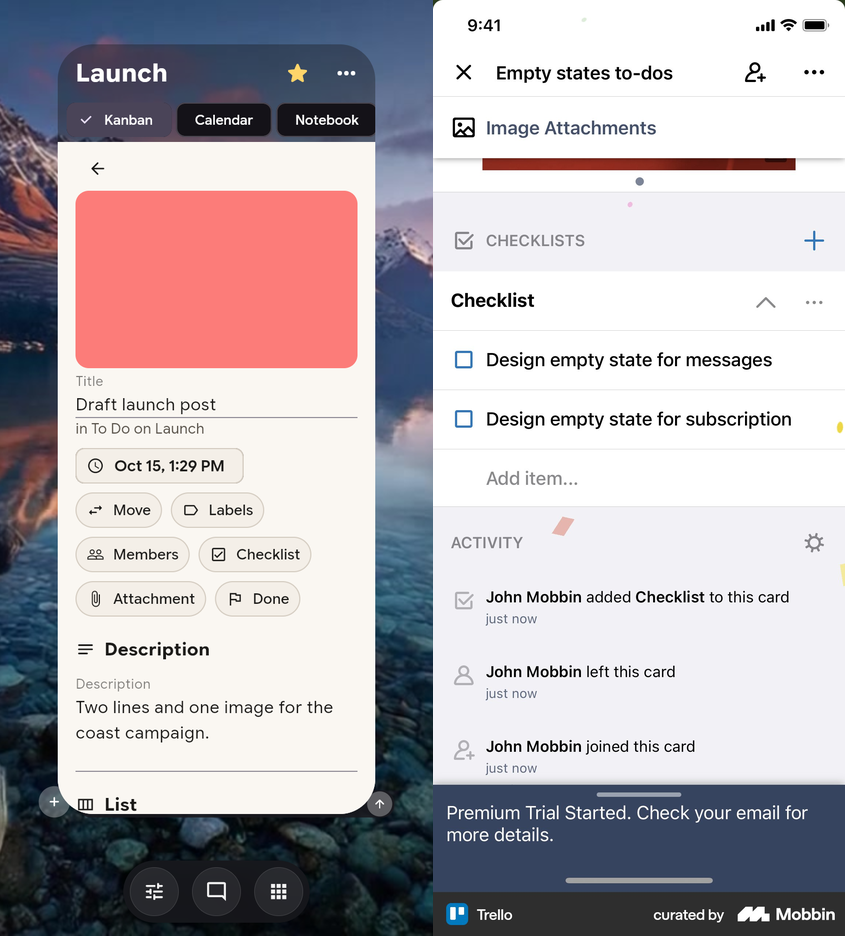
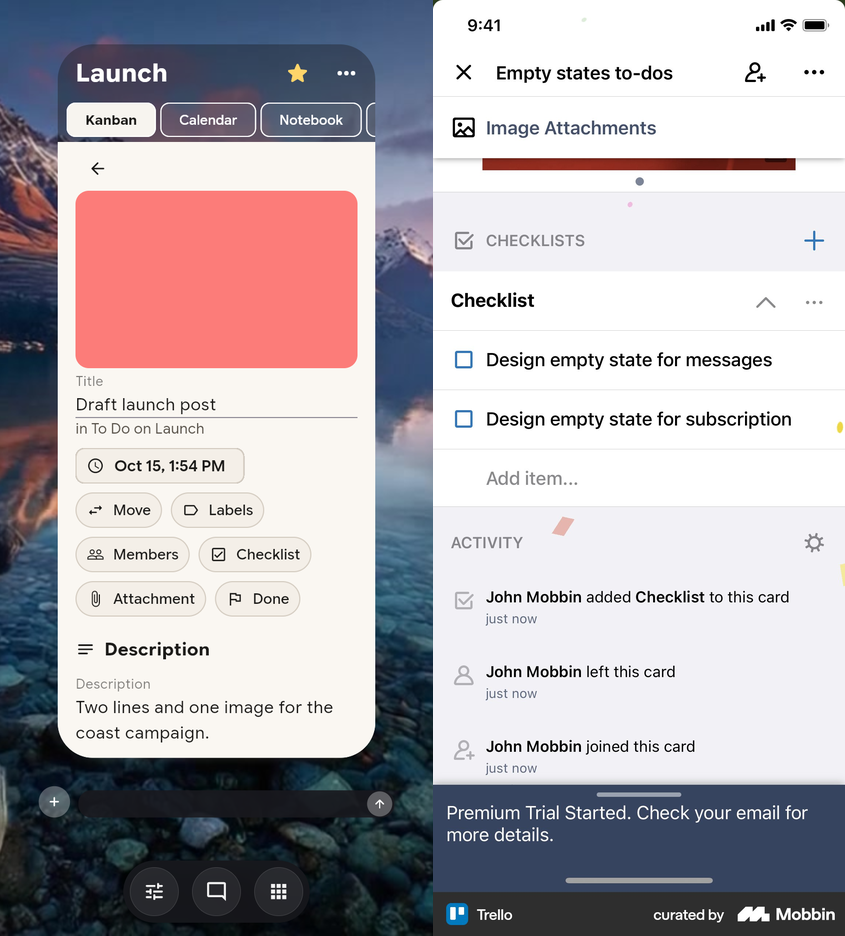
Let the unselected tabs read as glass and recapture the screens.
The chip material was an opaque dark slab under the outline. A transparent canvas lets the pane show through, and the new shots are from that build.

Changed region(s): [[0.0615, 0.7746, 0.4615, 0.8675], [0.0615, 0.0929, 0.4615, 0.1549], [0.2154, 0.4957, 0.2769, 0.5267]]

diff --git a/lib/features/smartgen/sg_pane.dart b/lib/features/smartgen/sg_pane.dart
@@ -202,24 +202,29 @@ class _SgPaneState extends State<SgPane> {
   Widget _glassChoice({required String label, required bool selected, required ValueChanged<bool> onSelected, double size = 12}) {
     final ink = selected ? const Color(0xFF1C1B19) : Colors.white;
     final style = appFont(fontSize: size, fontWeight: selected ? FontWeight.w700 : FontWeight.w500, color: ink);
-    return ChoiceChip(
-      label: Text(label, style: style),
-      labelStyle: style,
-      selected: selected,
-      showCheckmark: false,
-      onSelected: onSelected,
-      visualDensity: VisualDensity.compact,
-      materialTapTargetSize: MaterialTapTargetSize.shrinkWrap,
-      elevation: 0,
-      pressElevation: 0,
-      surfaceTintColor: Colors.transparent,
-      shadowColor: Colors.transparent,
-      selectedShadowColor: Colors.transparent,
-      side: BorderSide(color: selected ? const Color(0xFFFFFFFF) : const Color(0xB3FFFFFF), width: 1),
-      color: WidgetStateProperty.resolveWith((states) {
-        if (states.contains(WidgetState.selected)) return const Color(0xFFF7F4EF);
-        return const Color(0x14FFFFFF);
-      }),
+    // The chip's own material is an opaque dark slab on this theme. A
+    // transparent canvas lets the pane's glass show through the outline.
+    return Theme(
+      data: Theme.of(context).copyWith(canvasColor: Colors.transparent),
+      child: ChoiceChip(
+        label: Text(label, style: style),
+        labelStyle: style,
+        selected: selected,
+        showCheckmark: false,
+        onSelected: onSelected,
+        visualDensity: VisualDensity.compact,
+        materialTapTargetSize: MaterialTapTargetSize.shrinkWrap,
+        elevation: 0,
+        pressElevation: 0,
+        surfaceTintColor: Colors.transparent,
+        shadowColor: Colors.transparent,
+        selectedShadowColor: Colors.transparent,
+        side: BorderSide(color: selected ? const Color(0xFFFFFFFF) : const Color(0xE6FFFFFF), width: 1),
+        color: WidgetStateProperty.resolveWith((states) {
+          if (states.contains(WidgetState.selected)) return const Color(0xFFF7F4EF);
+          return const Color(0x14FFFFFF);
+        }),
+      ),
     );
   }
 
